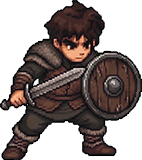
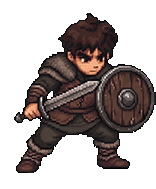
Sword and shield base pose: new ssbase.png from tracking (156x189, shadow removed); feet 72.5,173; cache token f
Claude-Session: https://claude.ai/code/session_01W4v7cyzS6Fr8aMVaGgywWE

diff --git a/index.html b/index.html
@@ -1111,13 +1111,13 @@
     <script src="data/monsters.js"></script>
     <script src="data/maps.js"></script>
     <script src="https://cdn.jsdelivr.net/npm/@supabase/supabase-js@2.45.4/dist/umd/supabase.js"></script>
-    <script src="js/player.js?v=20261103e"></script>
-    <script src="js/audio.js?v=20261103e"></script>
-    <script src="js/cloud.js?v=20261103e"></script>
-    <script src="js/combat.js?v=20261103e"></script>
-    <script src="js/ui.js?v=20261103e"></script>
-    <script src="js/town.js?v=20261103e"></script>
-    <script src="js/loader.js?v=20261103e"></script>
+    <script src="js/player.js?v=20261103f"></script>
+    <script src="js/audio.js?v=20261103f"></script>
+    <script src="js/cloud.js?v=20261103f"></script>
+    <script src="js/combat.js?v=20261103f"></script>
+    <script src="js/ui.js?v=20261103f"></script>
+    <script src="js/town.js?v=20261103f"></script>
+    <script src="js/loader.js?v=20261103f"></script>
 
 <script>
     // Called by js/loader.js once the loading screen has finished preloading

diff --git a/js/ui.js b/js/ui.js
@@ -563,7 +563,7 @@ const COMBAT_POSE_SETS = {
     // Sword and shield (1H weapon + shield). Sprites keep their exact file size; fx,fy are the feet point tracked from the boots.
     // CRI has two frames: one is picked at random for each critical attack. No dodge art yet, so dodge uses the base dodge.
     swordShield: {
-        IDLE: { src: 'assets/cha/swordandshield/ssbase.png', w: 142, h: 160, fx: 47.89, fy: 160 },
+        IDLE: { src: 'assets/cha/swordandshield/ssbase.png', w: 156, h: 189, fx: 72.5, fy: 173 },
         ATTACK: { src: 'assets/cha/swordandshield/ssattack_q85.webp', w: 151, h: 154, fx: 48.64, fy: 153 },
         CRI: [
             { src: 'assets/cha/swordandshield/sscritical_q85.webp', w: 193, h: 154, fx: 108.59, fy: 154 },
